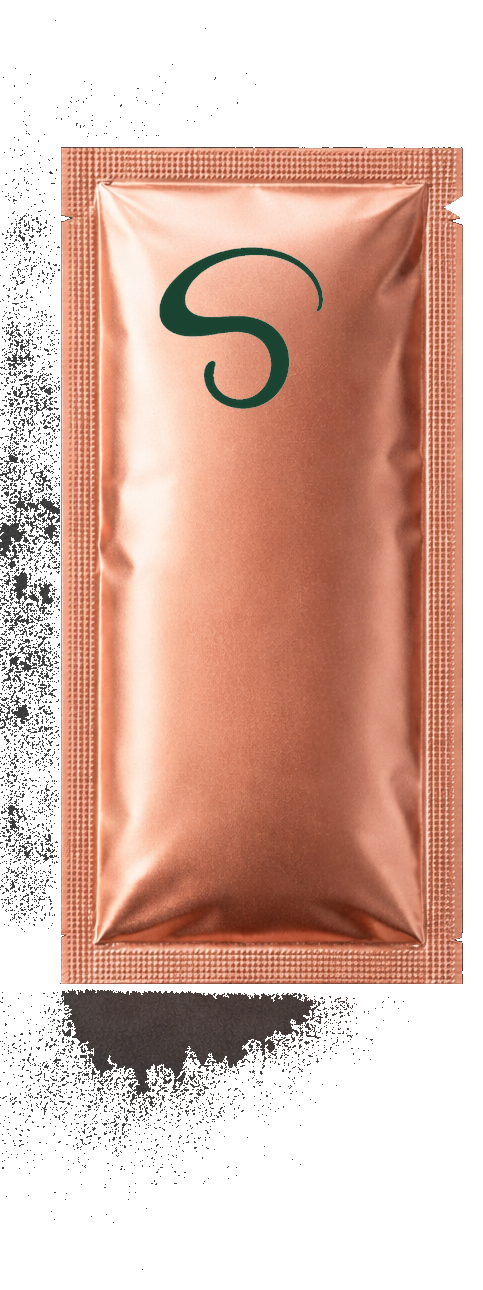
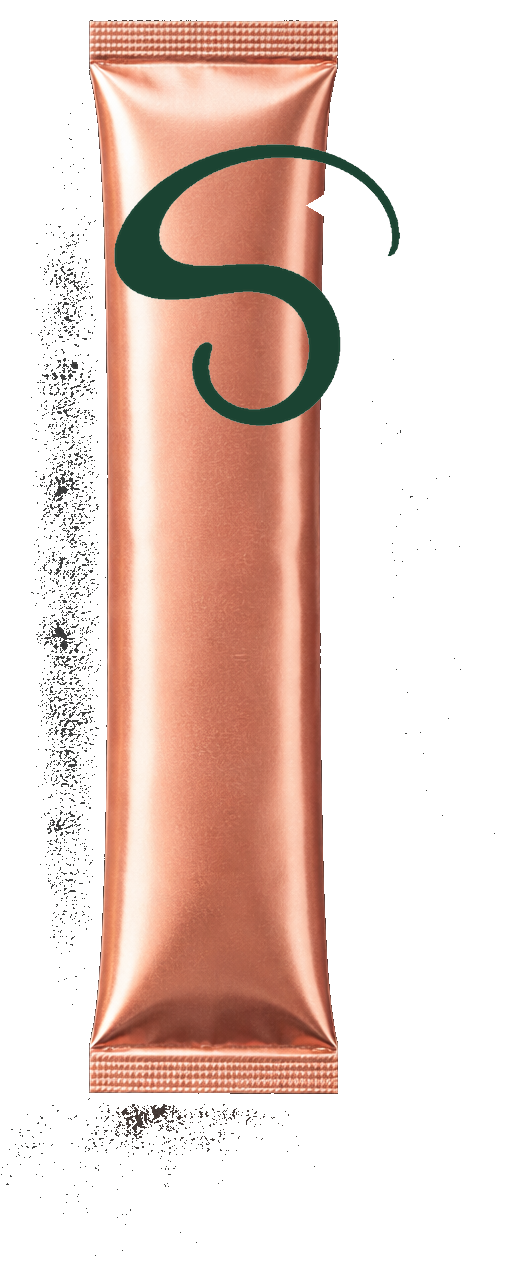
Fix sachet shape to slim stick packs, fix comparison table mobile layout
- New sachet images: slim premium stick pack shape (3:1+ h/w ratio)
  vs old wide tea-bag shape — matches Cymbiotika/AG-style sachets
- Sachet component: add height prop for height-based sizing of tall sticks
- Hero & flavor sections: use height={380} and height={420} for consistent sizing
- Comparison table mobile: rotate column headers vertically (writing-mode)
  so all 5 columns show cleanly on 375px screens without squashing
- Fix overflow on dark flavor section: overflowX only so sachet tops aren't clipped
- Remove crop overlap in sachet processor to eliminate artifact strips

diff --git a/app/page.tsx b/app/page.tsx
@@ -155,7 +155,7 @@ const FLAVORS = {
   },
 } as const;
 
-function Sachet({ flavor = "vanilla" as "vanilla" | "strawberry", scale = 1 }: { flavor?: "vanilla"|"strawberry"; scale?: number }) {
+function Sachet({ flavor = "vanilla" as "vanilla" | "strawberry", scale = 1, height }: { flavor?: "vanilla"|"strawberry"; scale?: number; height?: number }) {
   // ↓ Drop your product renders into /public/ to instantly activate:
   //   sachet-vanilla.png  |  sachet-strawberry.png
   const [imgFailed, setImgFailed] = useState(false);
@@ -164,13 +164,16 @@ function Sachet({ flavor = "vanilla" as "vanilla" | "strawberry", scale = 1 }: {
   const cfg = FLAVORS[flavor];
 
   if (!imgFailed) {
+    const imgStyle: React.CSSProperties = height
+      ? { display: "block", height: height, width: "auto", maxWidth: "100%", objectFit: "contain" }
+      : { display: "block", maxWidth: "100%", objectFit: "contain" };
     return (
       <div className="sachet-float" style={{ filter: "drop-shadow(0 32px 64px rgba(0,0,0,0.45))" }}>
         <img
           src={pngSrc}
           alt={`shroomé ${flavor} sachet`}
-          width={w}
-          style={{ display: "block", maxWidth: "100%", objectFit: "contain" }}
+          {...(!height ? { width: w } : {})}
+          style={imgStyle}
           onError={() => setImgFailed(true)}
         />
       </div>
@@ -348,16 +351,17 @@ export default function Home() {
 
         @media (max-width:700px) {
           .hero-grid { grid-template-columns:1fr !important; }
-          .hero-sachet { order:-1; min-height:50vw; max-height:72vw; padding:16px 0 8px; overflow:hidden; }
-          .hero-sachet img { max-height:68vw !important; width:auto !important; }
+          .hero-sachet { order:-1; min-height:50vw; max-height:90vw; padding:16px 0 8px; overflow:hidden; }
+          .hero-sachet img { max-height:82vw !important; width:auto !important; height:auto !important; }
           .hero-stat-card { display:none !important; }
           .hide-mob { display:none !important; }
           .hero-blob-1 { width:95vw; height:95vw; top:-8%; right:-20%; }
           .hero-blob-2 { display:none; }
           .cmp-inner { min-width:0 !important; }
-          .cmp-circle { width:20px !important; height:20px !important; font-size:0.68rem !important; }
-          .cmp-head { font-size:0.52rem !important; letter-spacing:0.01em !important; line-height:1.1 !important; padding:0 1px !important; }
-          .cmp-brand { font-size:0.82rem !important; }
+          .cmp-circle { width:22px !important; height:22px !important; font-size:0.72rem !important; }
+          .cmp-head { writing-mode:vertical-rl !important; transform:rotate(180deg) !important; font-size:0.58rem !important; letter-spacing:0.06em !important; padding:4px 2px !important; height:90px !important; align-self:end !important; white-space:nowrap !important; }
+          .cmp-brand { font-size:0.85rem !important; }
+          .cmp-grid { grid-template-columns:1.8fr repeat(5,1fr) !important; }
         }
       `}</style>
 
@@ -458,11 +462,11 @@ export default function Home() {
             </div>
             {/* Vanilla — back, angled left */}
             <div style={{ position: "absolute", transform: "rotate(-9deg) translateX(-28%)", transformOrigin: "bottom center", zIndex: 1, opacity: 0.88 }}>
-              <Sachet flavor="vanilla" scale={0.72} />
+              <Sachet flavor="vanilla" height={380} />
             </div>
             {/* Strawberry — front, slight tilt */}
             <div style={{ transform: "rotate(4deg)", transformOrigin: "bottom center", zIndex: 2 }}>
-              <Sachet flavor="strawberry" scale={0.72} />
+              <Sachet flavor="strawberry" height={380} />
             </div>
             {/* stat cards */}
             <div className="hero-stat-card" style={{ position: "absolute", bottom: "22%", left: 0, background: C.cream, padding: "14px 20px", border: `2px solid ${C.navy}`, zIndex: 3 }}>
@@ -478,7 +482,7 @@ export default function Home() {
         </section>
 
         {/* ── Ghia-style dark product moment ─────────────────────── */}
-        <section style={{ background: "#08090E", padding: "80px 5% 96px", position: "relative", overflow: "hidden", borderTop: `2px solid ${C.navy}` }}>
+        <section style={{ background: "#08090E", padding: "80px 5% 96px", position: "relative", overflowX: "hidden" as any, borderTop: `2px solid ${C.navy}` }}>
           {/* light rays from center */}
           <div style={{ position: "absolute", top: 0, left: 0, right: 0, bottom: 0, background: "radial-gradient(ellipse 70% 90% at 50% 30%, rgba(255,220,150,0.13) 0%, rgba(200,150,80,0.04) 45%, transparent 70%)", pointerEvents: "none" }}/>
           {/* side glow accents */}
@@ -499,7 +503,7 @@ export default function Home() {
               {/* Vanilla */}
               <div style={{ display: "flex", flexDirection: "column", alignItems: "center", gap: 20 }}>
                 <div style={{ transform: "rotate(-6deg)", filter: "drop-shadow(0 32px 72px rgba(245,240,232,0.22))" }}>
-                  <Sachet flavor="vanilla" scale={1.1} />
+                  <Sachet flavor="vanilla" height={420} />
                 </div>
                 <div style={{ textAlign: "center" }}>
                   <p style={{ fontFamily: FD, fontSize: "1.4rem", fontStyle: "italic", color: C.cream, marginBottom: 4 }}>Vanilla</p>
@@ -513,7 +517,7 @@ export default function Home() {
               {/* Strawberry */}
               <div style={{ display: "flex", flexDirection: "column", alignItems: "center", gap: 20 }}>
                 <div style={{ transform: "rotate(6deg)", filter: "drop-shadow(0 32px 72px rgba(255,184,194,0.22))" }}>
-                  <Sachet flavor="strawberry" scale={1.1} />
+                  <Sachet flavor="strawberry" height={420} />
                 </div>
                 <div style={{ textAlign: "center" }}>
                   <p style={{ fontFamily: FD, fontSize: "1.4rem", fontStyle: "italic", color: C.cream, marginBottom: 4 }}>Strawberry</p>
@@ -611,14 +615,14 @@ export default function Home() {
               {/* mobile scroll wrapper */}
               <div style={{ overflowX: "auto", WebkitOverflowScrolling: "touch" as any }}>
                 <div className="cmp-inner" style={{ minWidth: 340 }}>
-                  <div style={{ display: "grid", gridTemplateColumns: "2fr repeat(5, 1fr)", gap: 0, marginBottom: 14 }}>
+                  <div className="cmp-grid" style={{ display: "grid", gridTemplateColumns: "2fr repeat(5, 1fr)", gap: 0, marginBottom: 14, alignItems: "end" }}>
                     <div/>
                     {COMPARE_HEADS.map(h => (
                       <div key={h} className="cmp-head" style={{ fontFamily: FB, fontWeight: 700, fontSize: "0.7rem", letterSpacing: "0.04em", textTransform: "uppercase" as const, color: "rgba(253,244,238,0.75)", textAlign: "center", padding: "0 3px", lineHeight: 1.25 }}>{h}</div>
                     ))}
                   </div>
                   {COMPARE.map((row) => (
-                    <div key={row.brand} style={{ display: "grid", gridTemplateColumns: "2fr repeat(5, 1fr)", gap: 0, padding: "13px 0", borderTop: `1px solid rgba(253,244,238,${row.us ? "0.15" : "0.07"})`, background: row.us ? "rgba(200,255,58,0.08)" : "transparent", alignItems: "center" }}>
+                    <div key={row.brand} className="cmp-grid" style={{ display: "grid", gridTemplateColumns: "2fr repeat(5, 1fr)", gap: 0, padding: "13px 0", borderTop: `1px solid rgba(253,244,238,${row.us ? "0.15" : "0.07"})`, background: row.us ? "rgba(200,255,58,0.08)" : "transparent", alignItems: "center" }}>
                       <div className="cmp-brand" style={{ fontFamily: FD, fontSize: row.us ? "1.15rem" : "0.95rem", color: row.us ? C.lime : "rgba(253,244,238,0.6)", fontStyle: row.us ? "italic" : "normal" }}>{row.brand}</div>
                       {row.checks.map((c, i) => (
                         <div key={i} style={{ display: "flex", alignItems: "center", justifyContent: "center" }}>
